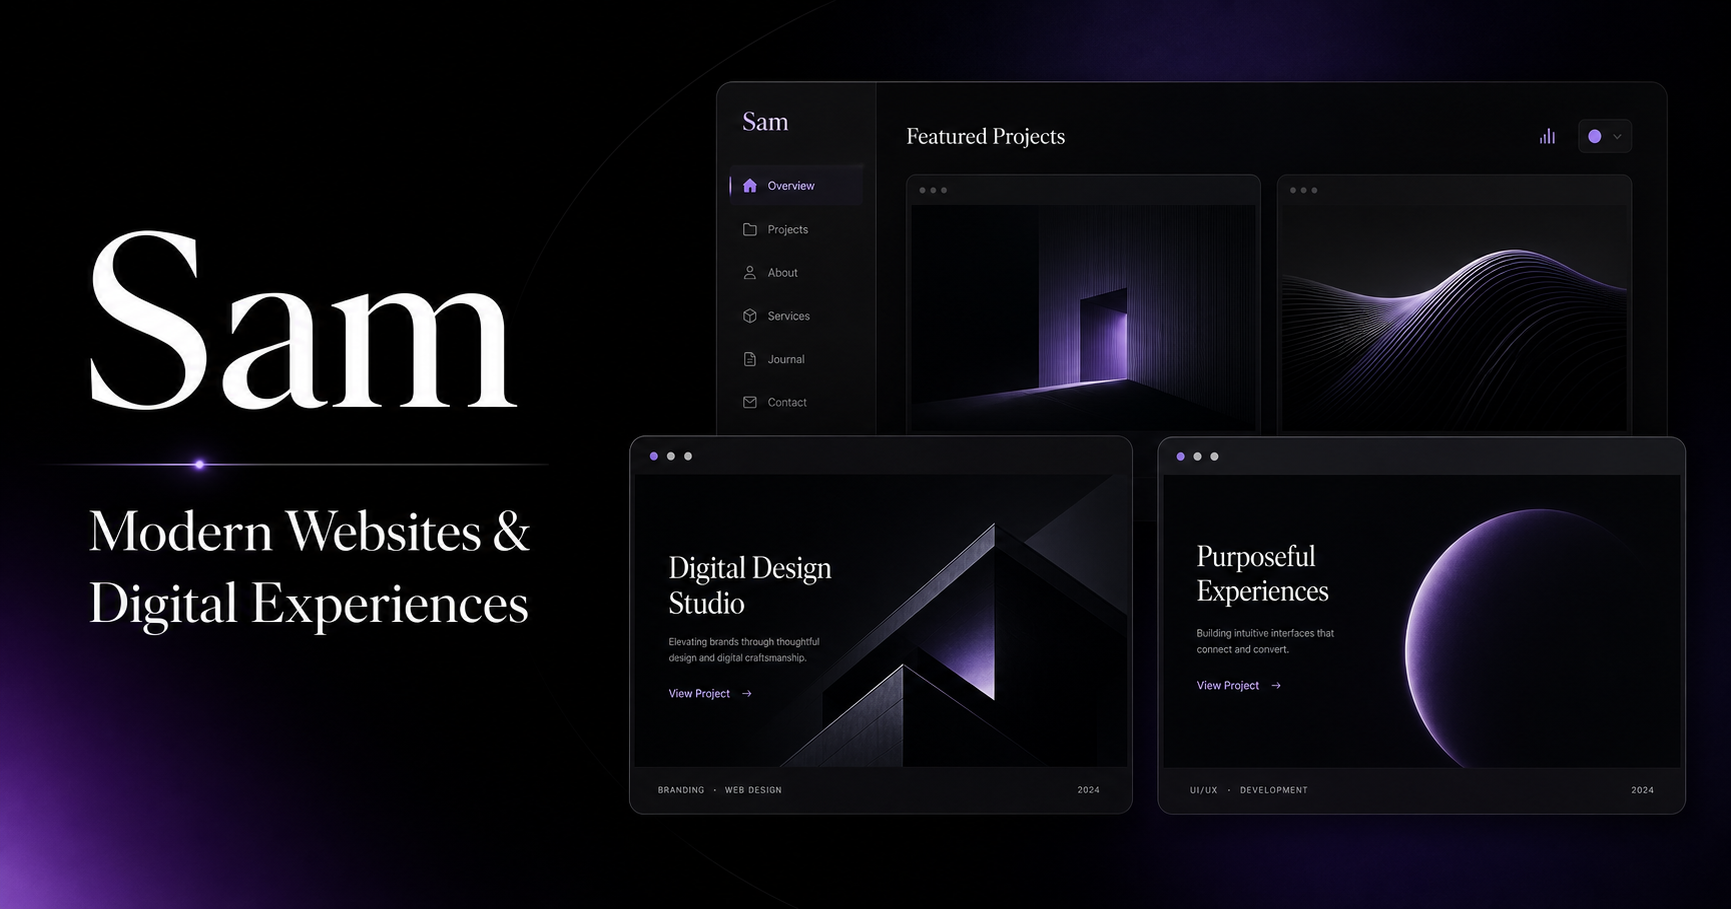
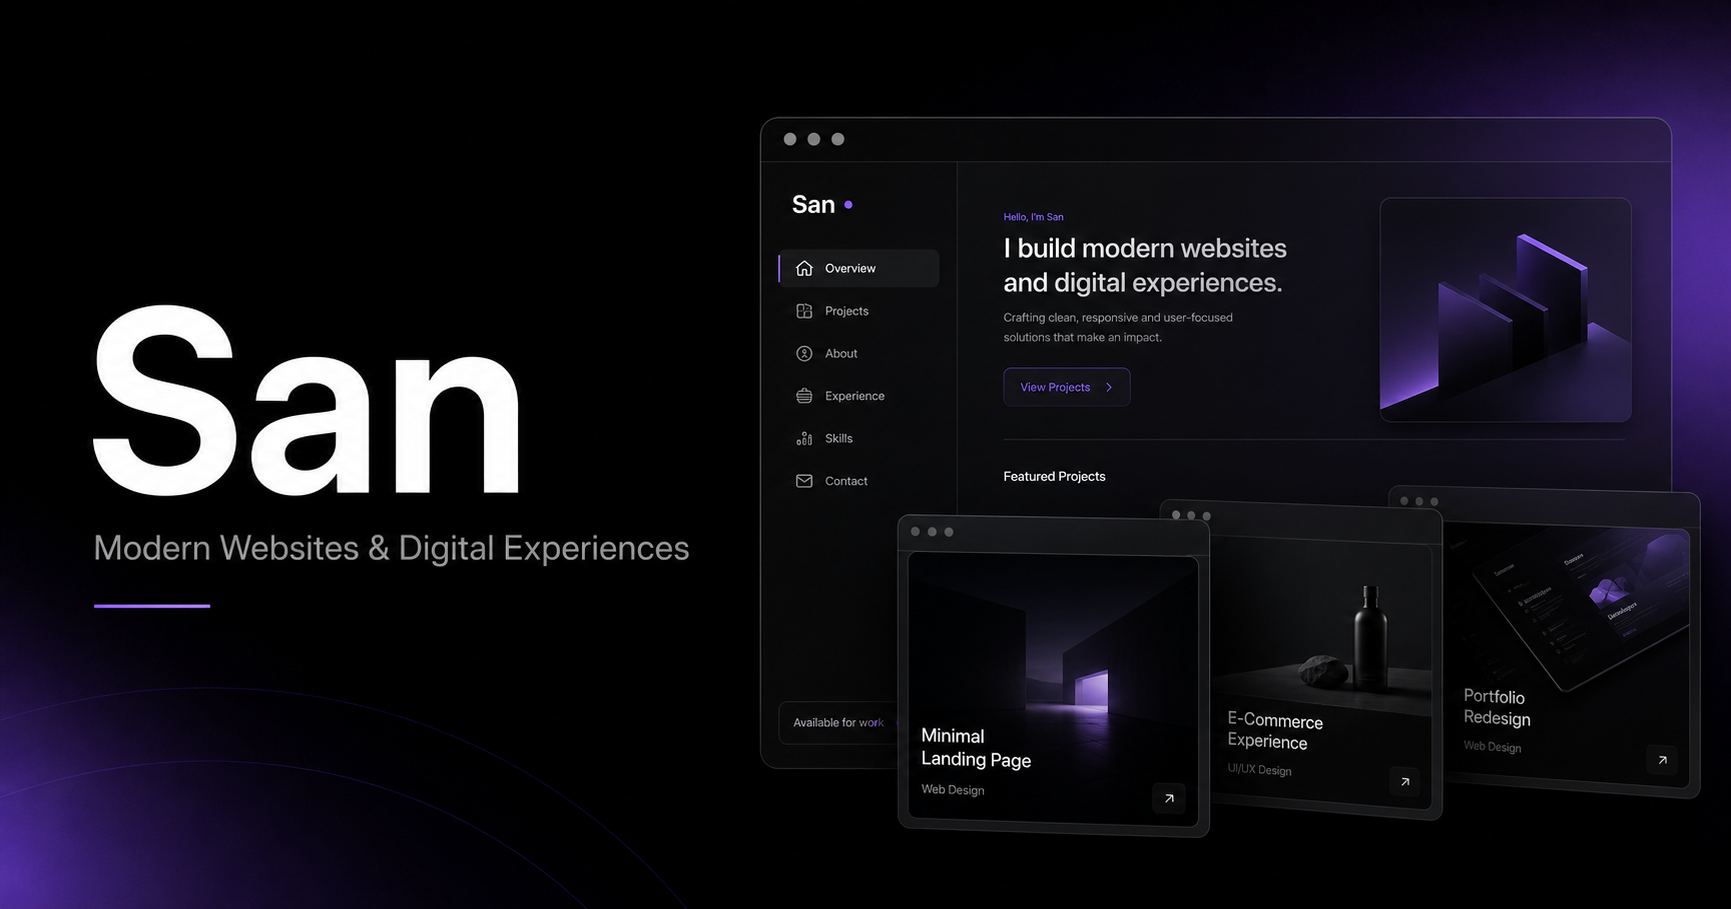
Rename portfolio brand to San

diff --git a/app/layout.tsx b/app/layout.tsx
@@ -12,31 +12,31 @@ const geistMono = Geist_Mono({
   subsets: ["latin"],
 });
 
-const siteUrl = process.env.NEXT_PUBLIC_SITE_URL ?? "https://sam.com";
+const siteUrl = process.env.NEXT_PUBLIC_SITE_URL ?? "https://san.com";
 
 export const metadata: Metadata = {
   metadataBase: new URL(siteUrl),
   title: {
-    default: "Sam | Modern Website Portfolio",
-    template: "%s | Sam",
+    default: "San | Modern Website Portfolio",
+    template: "%s | San",
   },
   description:
-    "Sam builds modern websites, useful tools, and polished digital experiences.",
+    "San builds modern websites, useful tools, and polished digital experiences.",
   alternates: {
     canonical: "/",
   },
   openGraph: {
-    title: "Sam | Modern Website Portfolio",
+    title: "San | Modern Website Portfolio",
     description:
       "A premium dark portfolio for modern websites and digital experiences.",
     url: siteUrl,
-    siteName: "Sam Portfolio",
-    images: [{ url: "/og.png", width: 1200, height: 630, alt: "Sam portfolio" }],
+    siteName: "San Portfolio",
+    images: [{ url: "/og.png", width: 1200, height: 630, alt: "San portfolio" }],
     type: "website",
   },
   twitter: {
     card: "summary_large_image",
-    title: "Sam | Modern Website Portfolio",
+    title: "San | Modern Website Portfolio",
     description:
       "A premium dark portfolio for modern websites and digital experiences.",
     images: ["/og.png"],

diff --git a/lib/config.ts b/lib/config.ts
@@ -1,14 +1,14 @@
 export const fallbackSettings = {
   id: "local-default",
-  site_title: "Sam Portfolio",
-  owner_name: "Sam",
+  site_title: "San Portfolio",
+  owner_name: "San",
   introduction: "I build modern websites, useful tools, and digital experiences.",
   about_text:
     "A focused portfolio for websites, tools, and digital experiences created with clean design and reliable engineering.",
   github_url: "https://github.com/",
   telegram_url: "https://t.me/",
-  email: "[email redacted]",
-  footer_text: "© Sam. Built for modern web projects.",
+  email: "[email redacted]",
+  footer_text: "© San. Built for modern web projects.",
   updated_at: new Date(0).toISOString(),
 };
 

diff --git a/app/admin/login/page.tsx b/app/admin/login/page.tsx
@@ -35,14 +35,14 @@ async function login(formData: FormData) {
   };
   const store = await cookies();
   const secureCookie = process.env.NODE_ENV === "production";
-  store.set("sam-admin-access-token", session.access_token, {
+  store.set("san-admin-access-token", session.access_token, {
     httpOnly: true,
     sameSite: "lax",
     secure: secureCookie,
     maxAge: session.expires_in,
     path: "/",
   });
-  store.set("sam-admin-refresh-token", session.refresh_token, {
+  store.set("san-admin-refresh-token", session.refresh_token, {
     httpOnly: true,
     sameSite: "lax",
     secure: secureCookie,
@@ -65,7 +65,7 @@ export default async function AdminLogin({
       <section className="form-panel login-card">
         <div className="brand">
           <span className="brand-mark">S</span>
-          <span>Sam Admin</span>
+          <span>San Admin</span>
         </div>
         <h1>Sign in</h1>
         <p className="muted">Use the administrator email and password created in Supabase.</p>

diff --git a/app/admin/actions.ts b/app/admin/actions.ts
@@ -5,7 +5,7 @@ import { redirect } from "next/navigation";
 
 export async function logout() {
   const store = await cookies();
-  store.delete("sam-admin-access-token");
-  store.delete("sam-admin-refresh-token");
+  store.delete("san-admin-access-token");
+  store.delete("san-admin-refresh-token");
   redirect("/admin/login");
 }

diff --git a/proxy.ts b/proxy.ts
@@ -7,13 +7,13 @@ export function proxy(request: NextRequest) {
     pathname.startsWith("/admin/projects") ||
     pathname.startsWith("/admin/settings");
 
-  if (protectedAdmin && !request.cookies.get("sam-admin-access-token")) {
+  if (protectedAdmin && !request.cookies.get("san-admin-access-token")) {
     const login = new URL("/admin/login", request.url);
     login.searchParams.set("next", pathname);
     return NextResponse.redirect(login);
   }
 
-  if (pathname === "/admin/login" && request.cookies.get("sam-admin-access-token")) {
+  if (pathname === "/admin/login" && request.cookies.get("san-admin-access-token")) {
     return NextResponse.redirect(new URL("/admin", request.url));
   }
 

diff --git a/app/admin/(private)/layout.tsx b/app/admin/(private)/layout.tsx
@@ -7,7 +7,7 @@ export default function AdminPrivateLayout({ children }: { children: React.React
       <aside className="sidebar">
         <Link className="brand" href="/admin">
           <span className="brand-mark">S</span>
-          <span>Sam Admin</span>
+          <span>San Admin</span>
         </Link>
         <nav className="sidebar-nav" aria-label="Admin navigation">
           <Link href="/admin">Dashboard</Link>

diff --git a/app/page.tsx b/app/page.tsx
@@ -40,7 +40,7 @@ export default async function Home() {
                   View Projects
                 </a>
                 <a className="button" href="#contact">
-                  Contact Sam
+                  Contact San
                 </a>
               </div>
             </div>

diff --git a/app/projects/[slug]/page.tsx b/app/projects/[slug]/page.tsx
@@ -35,7 +35,7 @@ export default async function ProjectPreview({ params }: { params: Promise<{ slu
         <div className="site-shell nav-inner">
           <Link className="brand" href="/">
             <span className="brand-mark">S</span>
-            <span>Sam</span>
+            <span>San</span>
           </Link>
           <nav className="nav-links" aria-label="Project navigation">
             <Link href="/#projects">Back to Projects</Link>

diff --git a/app/robots.ts b/app/robots.ts
@@ -1,7 +1,7 @@
 import type { MetadataRoute } from "next";
 
 export default function robots(): MetadataRoute.Robots {
-  const base = process.env.NEXT_PUBLIC_SITE_URL ?? "https://sam.com";
+  const base = process.env.NEXT_PUBLIC_SITE_URL ?? "https://san.com";
   return {
     rules: {
       userAgent: "*",

diff --git a/app/sitemap.ts b/app/sitemap.ts
@@ -2,7 +2,7 @@ import type { MetadataRoute } from "next";
 import { getPublishedProjects } from "@/lib/data";
 
 export default async function sitemap(): Promise<MetadataRoute.Sitemap> {
-  const base = process.env.NEXT_PUBLIC_SITE_URL ?? "https://sam.com";
+  const base = process.env.NEXT_PUBLIC_SITE_URL ?? "https://san.com";
   const projects = await getPublishedProjects();
 
   return [

diff --git a/lib/data.ts b/lib/data.ts
@@ -9,7 +9,7 @@ const sampleProjects: Project[] = [
     slug: "aurora-studio",
     short_description: "A polished website concept for a modern digital studio.",
     full_description:
-      "A sample published project that shows how Sam's website cards and preview pages will look after Supabase is connected.",
+      "A sample published project that shows how San's website cards and preview pages will look after Supabase is connected.",
     website_url: "https://example.com",
     screenshot_url: null,
     technologies: ["Next.js", "TypeScript", "Tailwind CSS"],

diff --git a/lib/supabase-rest.ts b/lib/supabase-rest.ts
@@ -13,7 +13,7 @@ export class SupabaseConfigError extends Error {}
 
 export async function getSessionToken() {
   const store = await cookies();
-  return store.get("sam-admin-access-token")?.value ?? null;
+  return store.get("san-admin-access-token")?.value ?? null;
 }
 
 export async function supabaseRequest<T>(